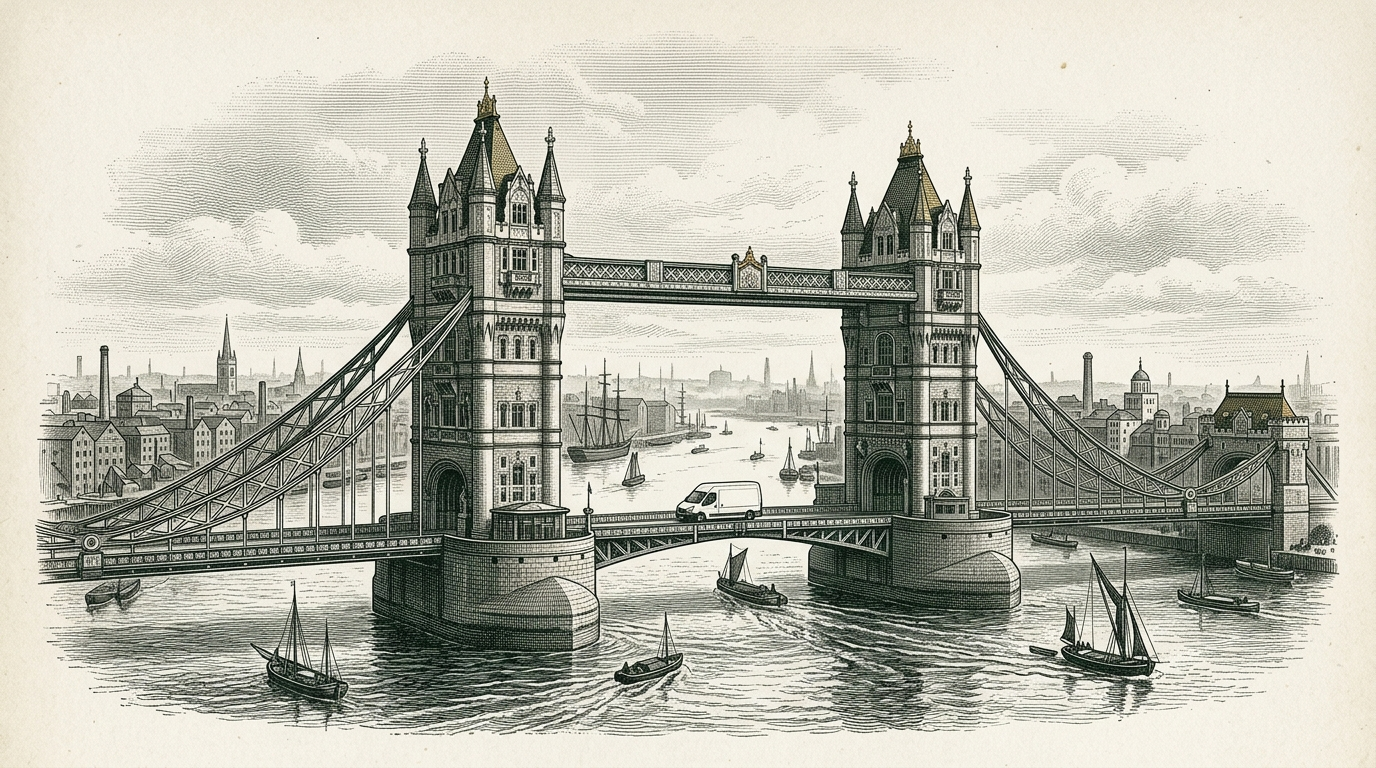
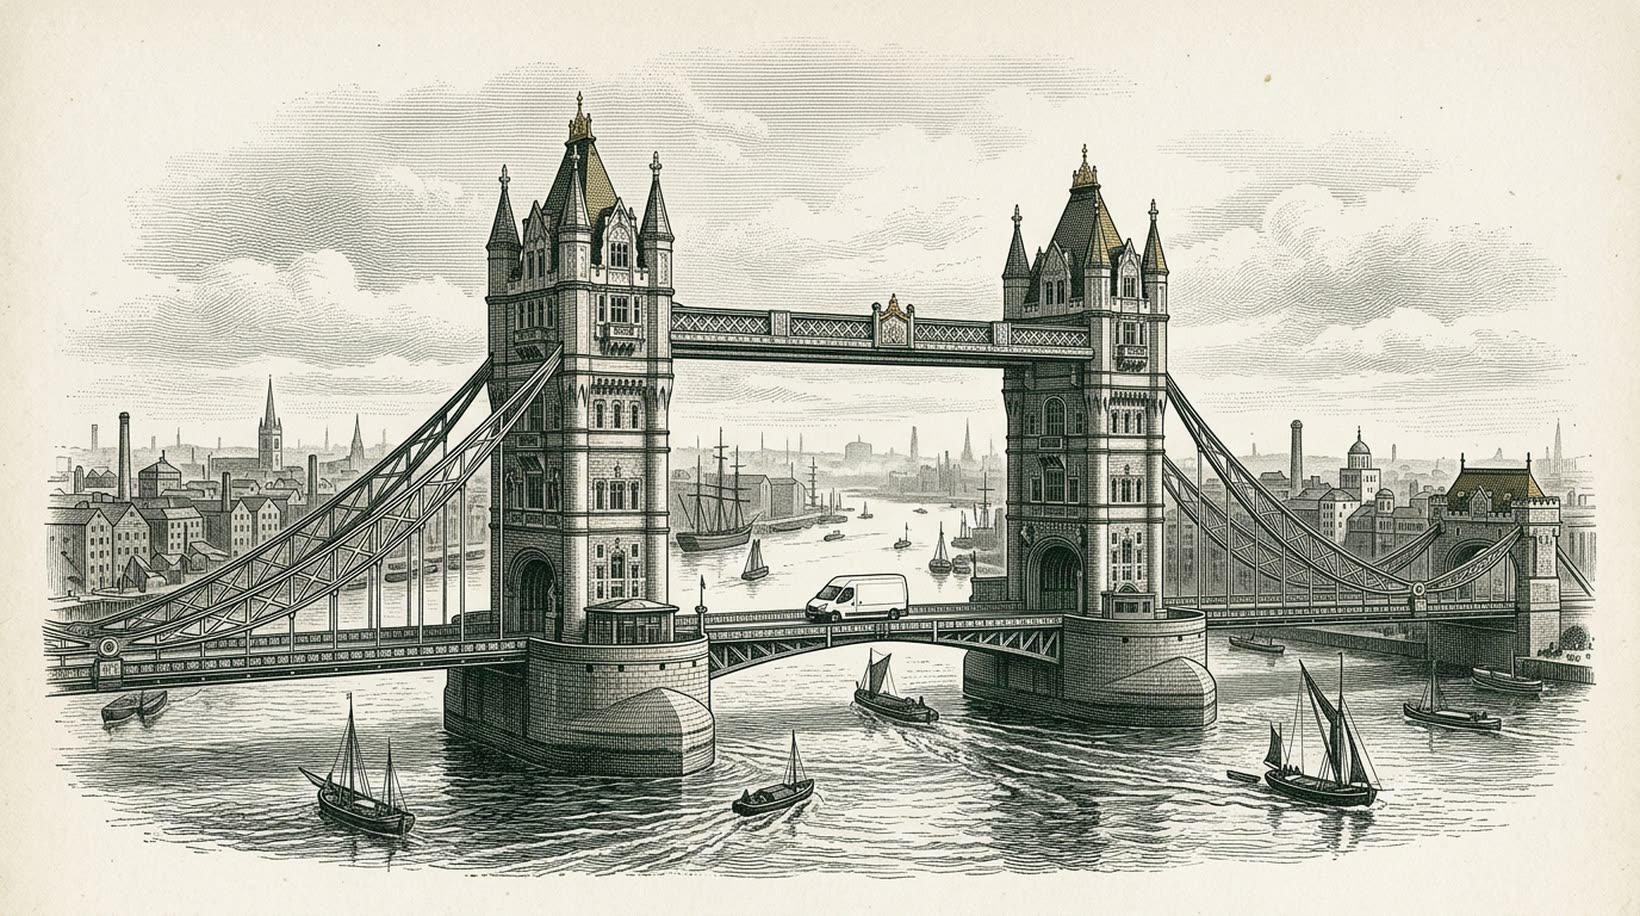
The engraving is sized for the web and held back on a wide screen
The picture filled a desktop screen, so it is capped at 820px and centred
there, while a phone still gets it edge to edge. Both files are re-encoded
to 1640px wide, which drops the page's weight from 1.1 MB to 383 KB.

diff --git a/index.html b/index.html
@@ -149,7 +149,7 @@ legend{padding:0;margin-bottom:14px;font-weight:700;font-size:12.5px;letter-spac
 
 /* the engraved plate: its own paper tone multiplies into ours, so it sits on the page rather than on top of it */
 .plate figure{margin:0}
-.plate img{width:100%;height:auto;mix-blend-mode:multiply}
+.plate img{width:100%;max-width:820px;height:auto;margin-inline:auto;mix-blend-mode:multiply}
 .plate figcaption{font-family:var(--display);font-style:italic;font-size:clamp(17px,2vw,21px);color:var(--muted);text-align:center;margin-top:18px}
 
 /* about */
@@ -308,7 +308,7 @@ legend{padding:0;margin-bottom:14px;font-weight:700;font-size:12.5px;letter-spac
 
   <section class="plate">
     <figure>
-      <img src="london-plate.jpg" alt="An engraving of Tower Bridge and the Thames, with a modern panel van crossing the bridge" width="1392" height="768">
+      <img src="london-plate.jpg" alt="An engraving of Tower Bridge and the Thames, with a modern panel van crossing the bridge" width="1640" height="916" loading="lazy" decoding="async">
       <figcaption class="wrap">The city has not changed much. The way you agree a price has.</figcaption>
     </figure>
   </section>
